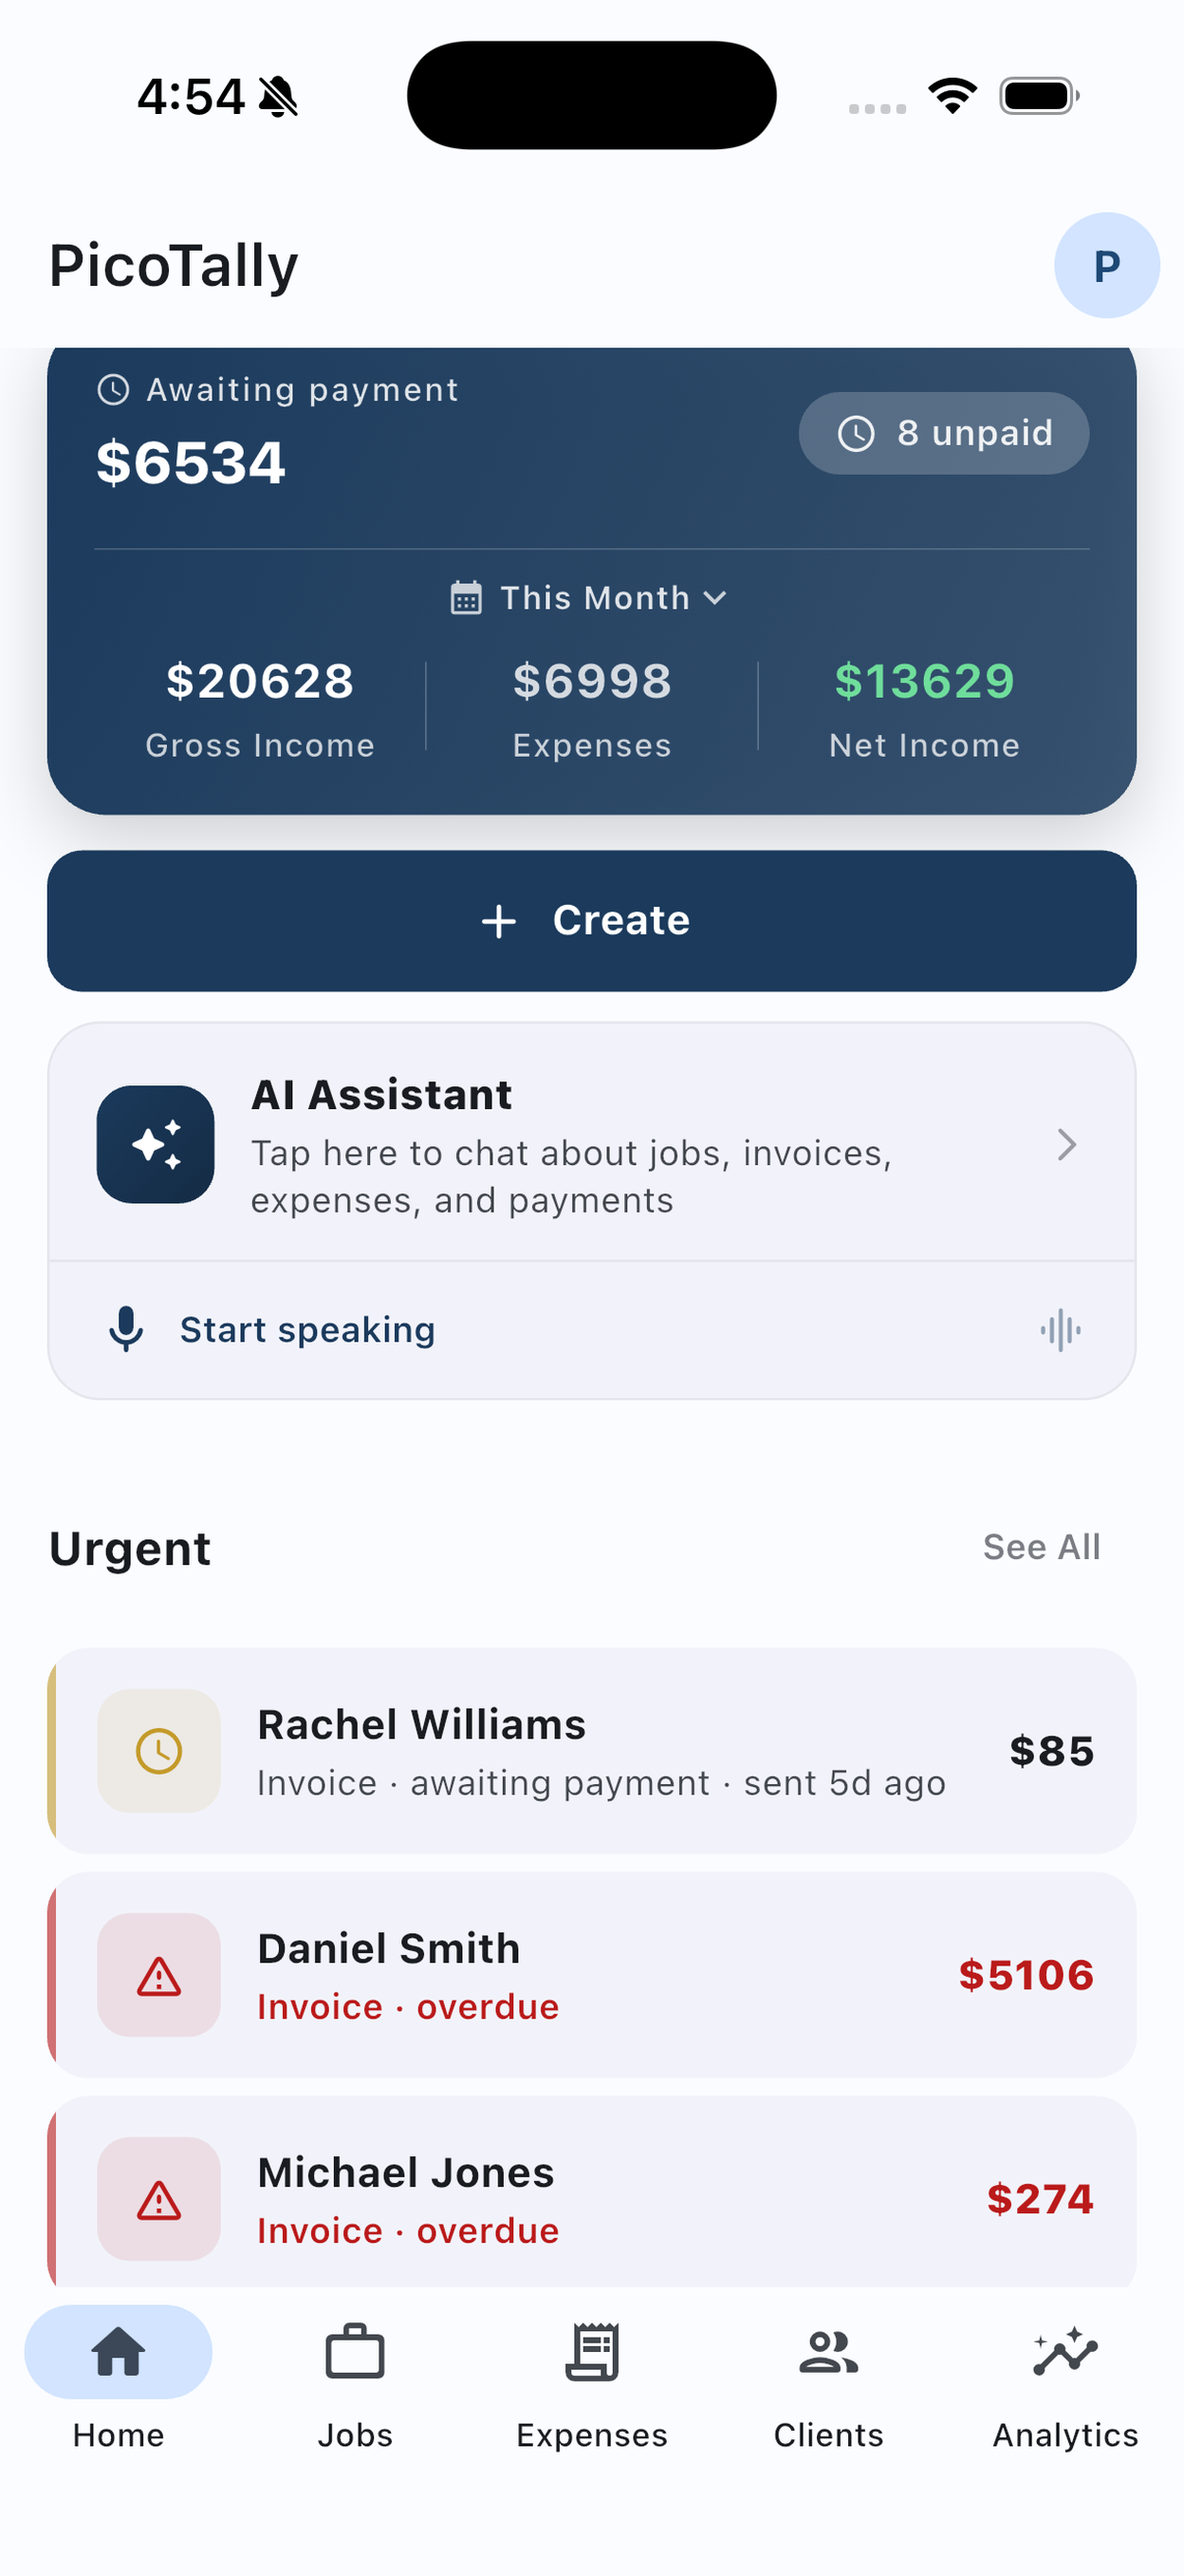
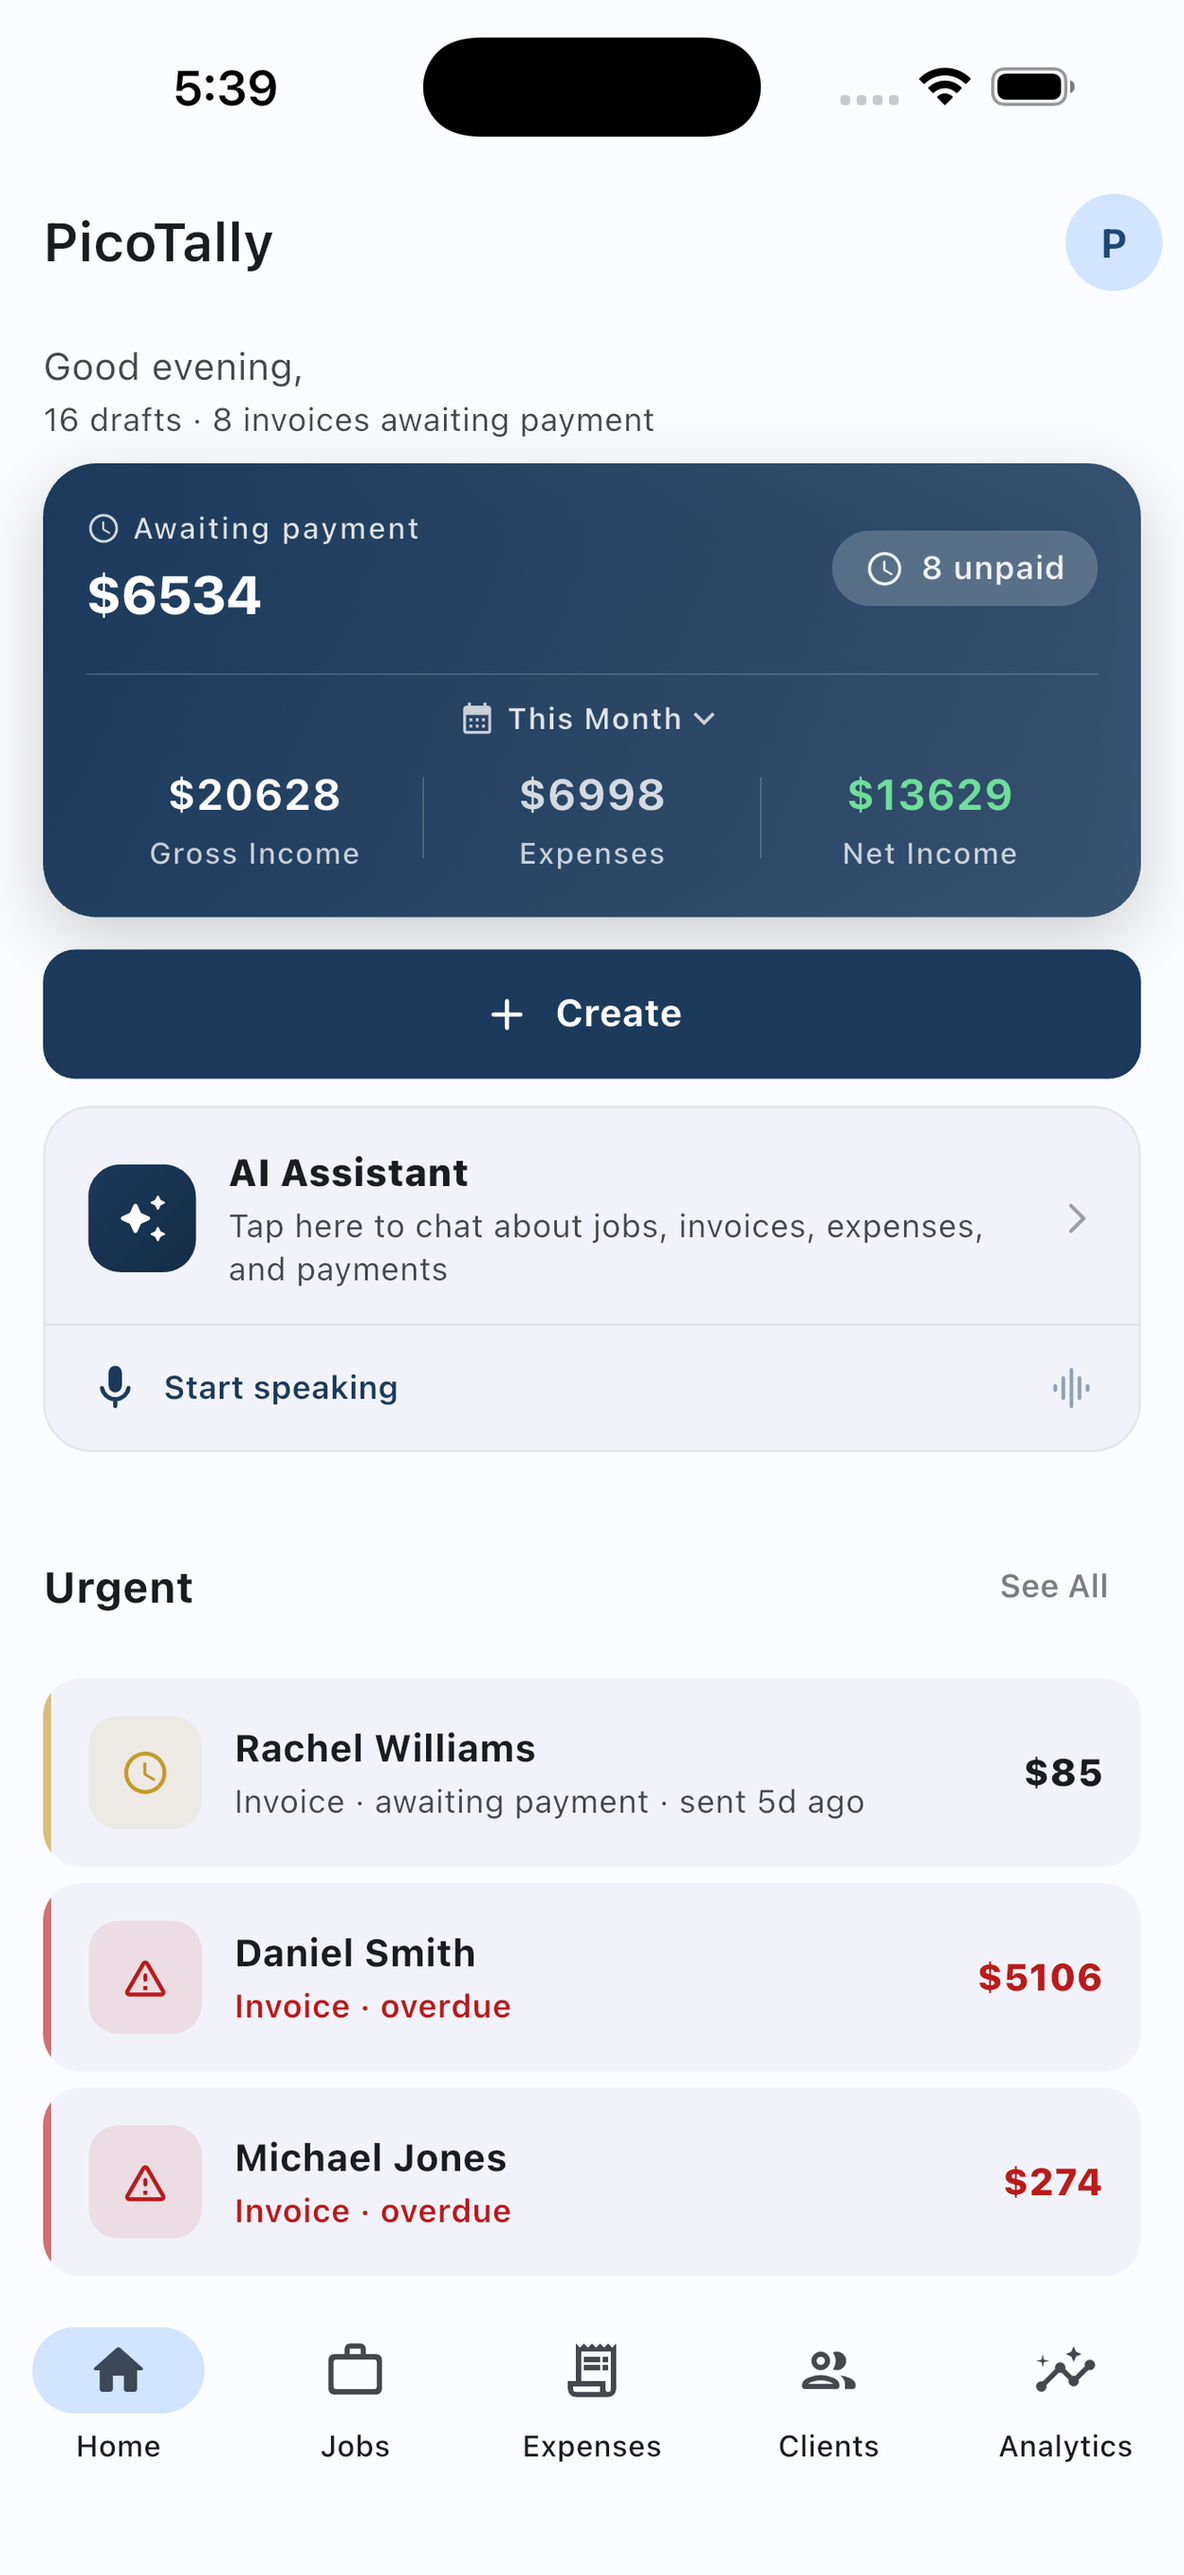
feat: capture all 5 hero screens on iPhone 17 Pro Max (1320x2868 native)
Switched the screenshot source from iPhone 17 (1206x2622) to iPhone 17
Pro Max (1320x2868), then re-shot all 5 hero screens in light mode.

Why this matters
  * The 3x variant (1248-wide) is now a clean 1.058x Lanczos
    *downscale* from the 1320 source instead of the 1.035x *upscale*
    we had with 1206. Pixel-perfect text on every retina display.
  * The 1320-wide native matches App Store Connect's "iPhone 6.9 inch
    Display" required screenshot resolution exactly — these captures
    are now reusable for App Store Connect when we get there.

Content updates baked in this round
  * AI chat hero: same Q1 ("Who owes me the most?") but the answer is
    now a numbered top-4 breakdown plus a $7,234.02 8-invoice total.
    Q2 swapped from a generic revenue question to a *plumbing*-trade-
    specific one: "How much did I spend on pipes in the last 2
    months?" returns $343.98 across 5 items, attributed mostly to
    Daniel Smith's jobs at $194.98. Demonstrates material-specific
    spend tracking — the kind of question generic AI can't answer
    without your data.
  * Receipt detail (04): the taller Pro Max screen now fits the
    Payment (Credit/Debit Card) and Receipt (Attached) meta rows
    that were cropped on iPhone 17.
  * Home (01): all three Urgent customers (Rachel Williams, Daniel
    Smith, Michael Jones) are now visible without any scroll — the
    taller screen makes the manual scroll-up we did on iPhone 17
    unnecessary.
[…]

diff --git a/index.html b/index.html
@@ -779,7 +779,7 @@
       <div class="iphone-screen">
         <picture>
           <source srcset="/screenshots/02-chat-overdue.webp 2x, /screenshots/02-chat-overdue@3x.webp 3x" type="image/webp">
-          <img src="/screenshots/02-chat-overdue.png" srcset="/screenshots/02-chat-overdue.png 2x, /screenshots/02-chat-overdue@3x.png 3x" alt="PicoTally AI assistant answering two questions in one conversation: 'Who owes me the most?' returns Daniel Smith $5,106.06 plus a complete itemised list of 7 other customers with their overdue days and a $1,427.96 total across 8 unpaid invoices; 'How much did I collect last month?' returns $8,988.63 in April across 5 payments with the biggest payments named" width="832" height="1809" fetchpriority="high">
+          <img src="/screenshots/02-chat-overdue.png" srcset="/screenshots/02-chat-overdue.png 2x, /screenshots/02-chat-overdue@3x.png 3x" alt="PicoTally AI assistant answering two questions in one conversation: 'Who owes me the most?' returns Daniel Smith $5,106.06 plus a numbered top-4 breakdown (Steven, Michael Jones, Mike) with a $7,234.02 total across 8 unpaid invoices; 'How much did I spend on pipes in the last 2 months?' returns $343.98 across 5 items, attributed mostly to Daniel Smith's jobs at $194.98" width="832" height="1809" fetchpriority="high">
         </picture>
       </div>
     </div>
@@ -878,7 +878,7 @@
           <div class="iphone-screen">
             <picture>
               <source srcset="/screenshots/04-receipt-costco.webp 2x, /screenshots/04-receipt-costco@3x.webp 3x" type="image/webp">
-              <img src="/screenshots/04-receipt-costco.png" srcset="/screenshots/04-receipt-costco.png 2x, /screenshots/04-receipt-costco@3x.png 3x" alt="Receipt detail view: Kroger vendor pill, $6.48 total, itemised line-item table showing Daisy Sour Cream $2.99 and Kroger Milk $3.49, with subtotal $6.48, tax $0.00, total $6.48 plus Edit and Delete actions" width="832" height="1809" loading="lazy" decoding="async">
+              <img src="/screenshots/04-receipt-costco.png" srcset="/screenshots/04-receipt-costco.png 2x, /screenshots/04-receipt-costco@3x.png 3x" alt="Receipt detail view: Kroger vendor pill, $6.48 total, itemised line-item table showing Daisy Sour Cream $2.99 and Kroger Milk $3.49, with subtotal $6.48, tax $0.00, total $6.48, plus a meta panel showing date Thursday Apr 30 2026, vendor Kroger, category Meals & Entertainment, payment Credit/Debit Card, receipt Attached, and Edit / Delete actions" width="832" height="1809" loading="lazy" decoding="async">
             </picture>
           </div>
         </div>
